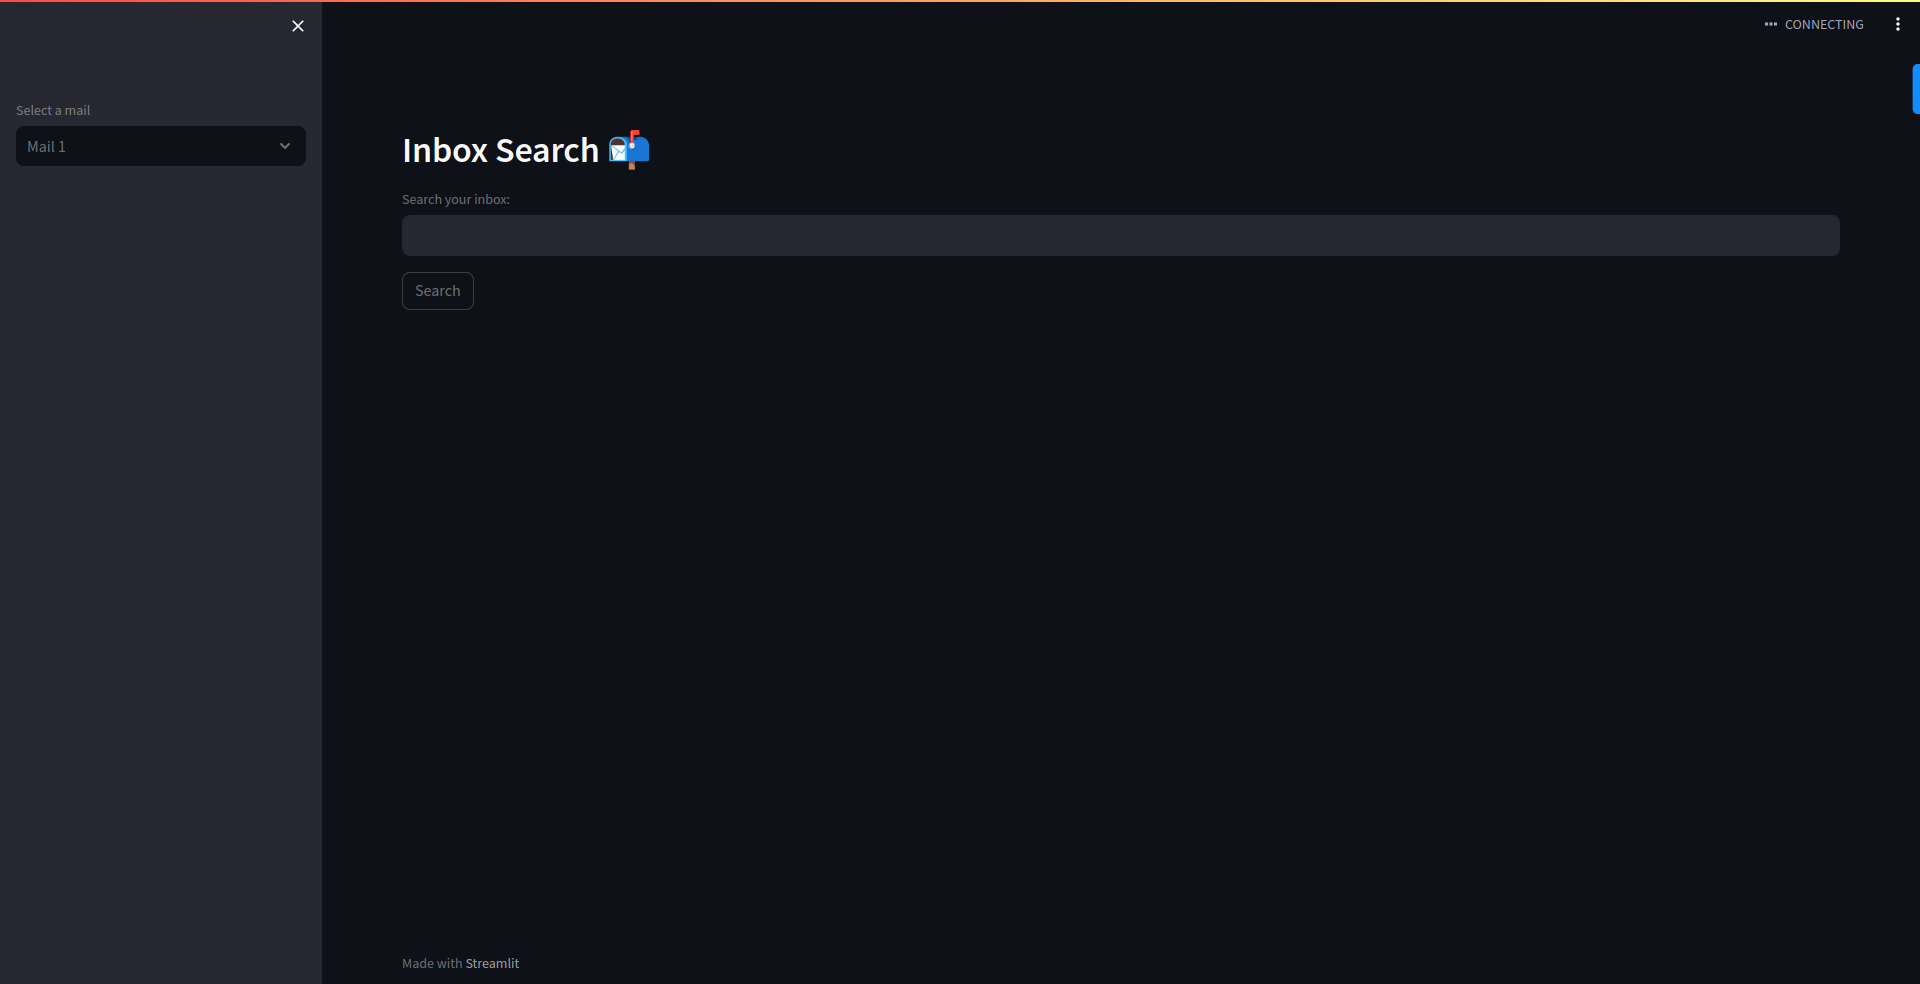
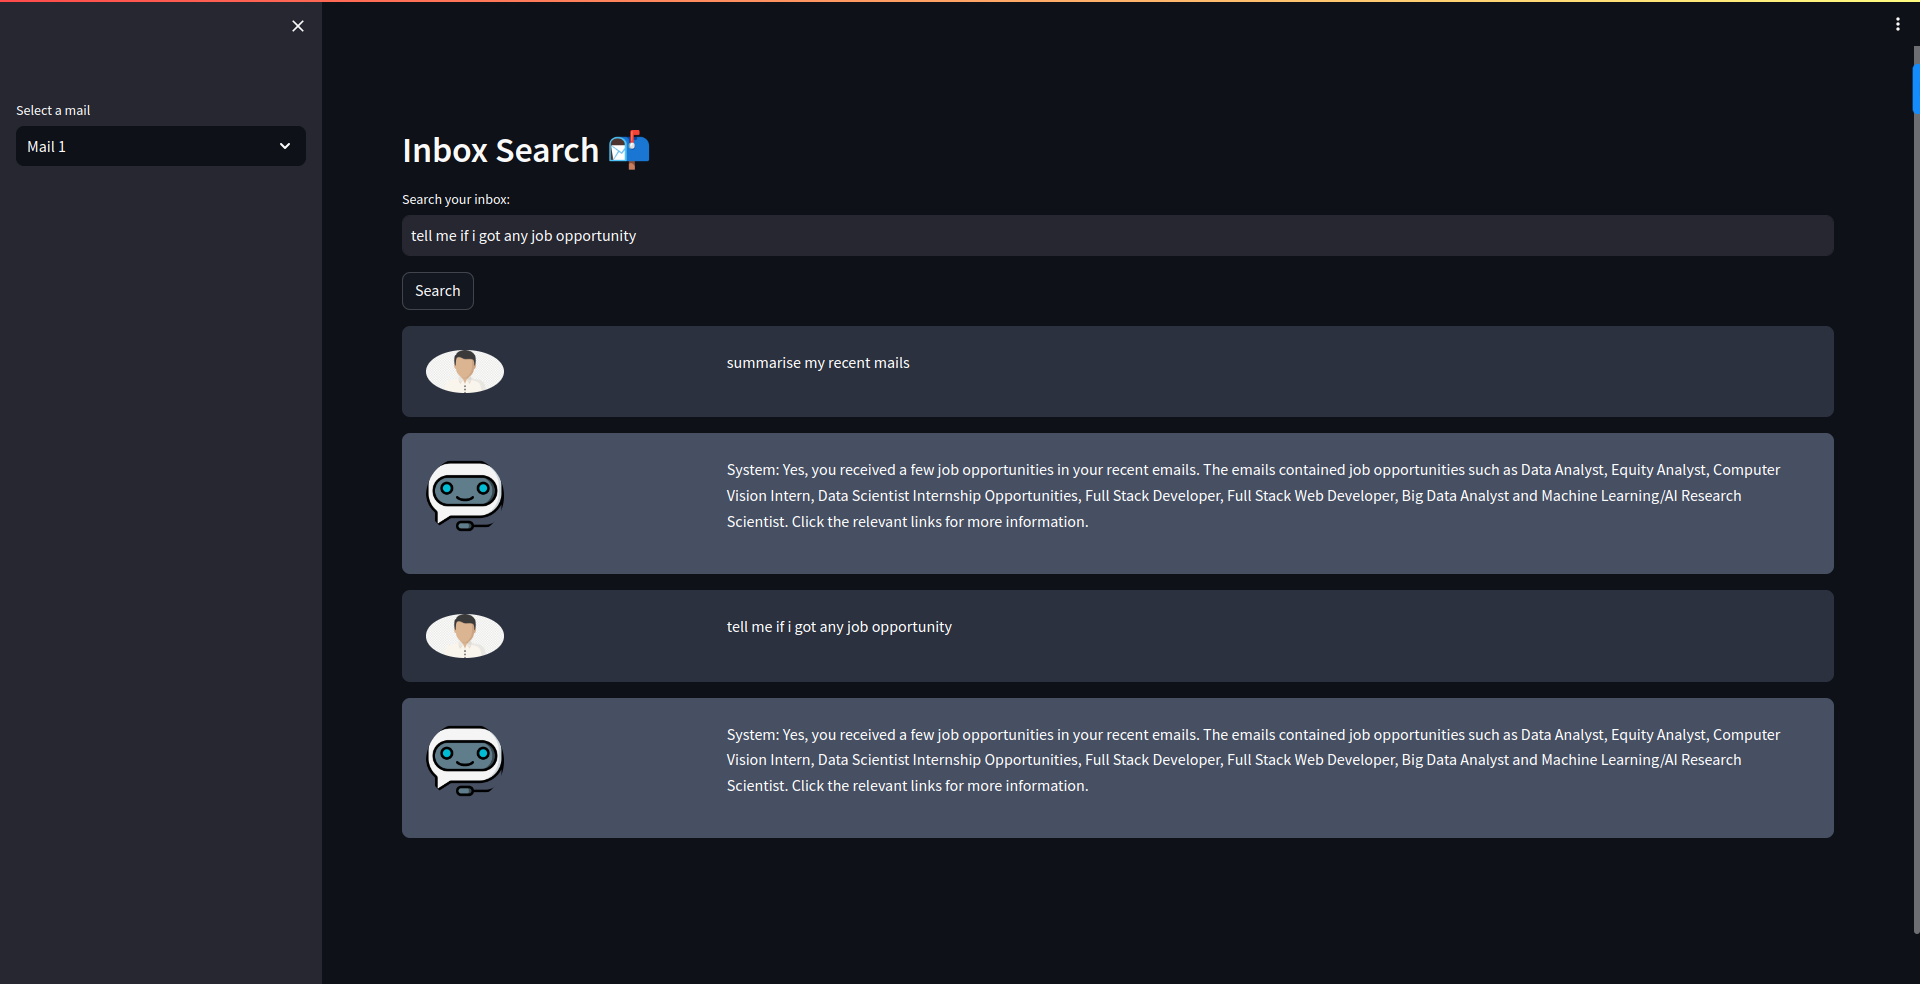
updated promt

diff --git a/app.py b/app.py
@@ -5,7 +5,11 @@ from langchain.llms import OpenAI
 from langchain.chains import ChatVectorDBChain, ConversationalRetrievalChain
 from langchain.memory import ConversationBufferMemory, ConversationSummaryBufferMemory
 from langchain import HuggingFaceHub
-
+from langchain.prompts.chat import (
+    ChatPromptTemplate, 
+    SystemMessagePromptTemplate, 
+    HumanMessagePromptTemplate
+)
 import weaviate
 from utils.htmlTemplate import css, bot_template, user_template
 import os
@@ -17,24 +21,46 @@ def get_conversation_chain(vectorstore):
     momory = ConversationBufferMemory(memory_key="chat_history", return_messages=True, verbose=True)
     # llm = HuggingFaceHub(repo_id=repo_id, model_kwargs={"temperature": 0.7, "max_length": 10000})
     llm = OpenAI(temperature=0.8, max_tokens=1000)
+
+    system_template = """Use following pieces of context to answer the users question. 
+    Following contexts are summarised texts from users inbox.
+    ----------------
+    {context}"""
+
+    # Create the chat prompt templates
+    messages = [
+    SystemMessagePromptTemplate.from_template(system_template),
+    HumanMessagePromptTemplate.from_template("{question}")
+    ]
+    qa_prompt = ChatPromptTemplate.from_messages(messages)
+    
+    retriver = vectorstore.as_retriever(search_kwargs={"k": 10})
+
     conversation_chain = ConversationalRetrievalChain.from_llm(
-        llm=llm,
-        retriever=vectorstore.as_retriever(search_kwargs={"k": 10}), 
-        max_tokens_limit=3000,
-        memory=momory,
-        verbose=True
+    llm=llm,
+    retriever=retriver, 
+    return_source_documents=True,
+    combine_docs_chain_kwargs={"prompt": qa_prompt},
+    max_tokens_limit=3000,
+    memory=momory,
+    verbose=True
     )
+    print(f"Conversation chain created {conversation_chain}")
     return conversation_chain
 
 def user_input(user_query):
+    print(f"User query: {user_query}")
     response =  st.session_state.conversation({"question": user_query})
+    print(f"Response: {response}")
+
     st.session_state.chat_history = response['chat_history']
+    answer = response['answer']
     
     for i, message in enumerate(st.session_state.chat_history):
         if i % 2 == 0:
             st.write(user_template.replace("{{MSG}}", message.content), unsafe_allow_html=True)
         else:
-            st.write(bot_template.replace("{{MSG}}", message.content), unsafe_allow_html=True)
+            st.write(bot_template.replace("{{MSG}}", answer), unsafe_allow_html=True)
 
 def main():
     load_dotenv()
@@ -58,7 +84,6 @@ def main():
 
     if st.button("Search"):
         with st.spinner("Searching..."):
-            st.session_state.conversation = get_conversation_chain(vectorstore)
             if question:
                 user_input(question)
 
